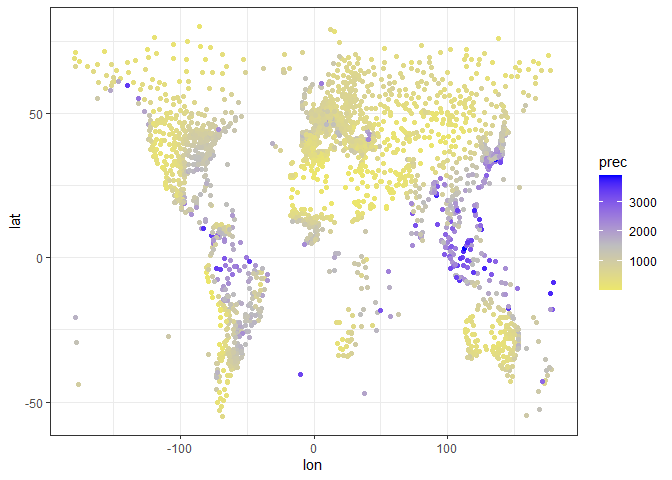
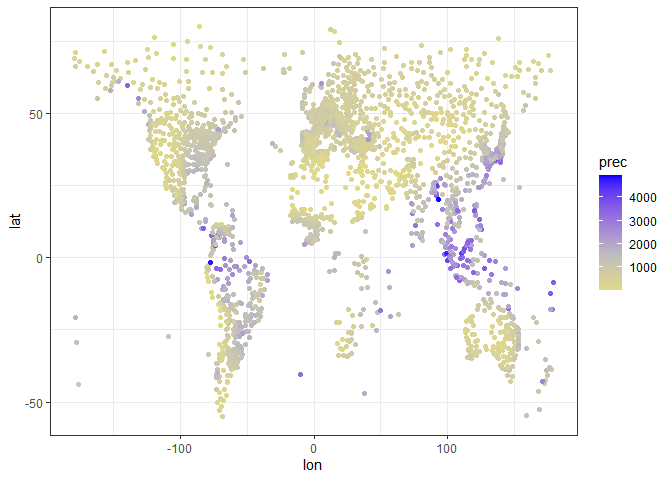
4000mm -> 5000mm

diff --git a/READMEjp.md b/READMEjp.md
@@ -171,11 +171,11 @@ climate %>%
 ```
 
 年間降水量を世界地図のように表示．
-ただし，凡例が引きずられるのを防ぐため，4000mm/年の地点は除去．
+ただし，凡例が引きずられるのを防ぐため，5000mm/年の地点は除去．
 
 ``` r
 climate %>%
-  dplyr::filter(prec < 4000) %>%
+  dplyr::filter(prec < 5000) %>%
   ggplot(aes(lon, lat, colour = prec)) +
     scale_colour_gradient2(low = "yellow", mid = "gray", high = "blue", midpoint = 1500) + 
     geom_point() + 

diff --git a/README.md b/README.md
@@ -163,12 +163,12 @@ climate %>%
   # ggsave("temperature.png")
 ```
 
-Draw a world map with precipitation except over 4000 mm/yr (to avoid
+Draw a world map with precipitation except over 5000 mm/yr (to avoid
 extended legend).
 
 ``` r
 climate %>%
-  dplyr::filter(prec < 4000) %>%
+  dplyr::filter(prec < 5000) %>%
   ggplot(aes(lon, lat, colour = prec)) +
     scale_colour_gradient2(low = "yellow", mid = "gray", high = "blue", midpoint = 1500) + 
     geom_point() + 
